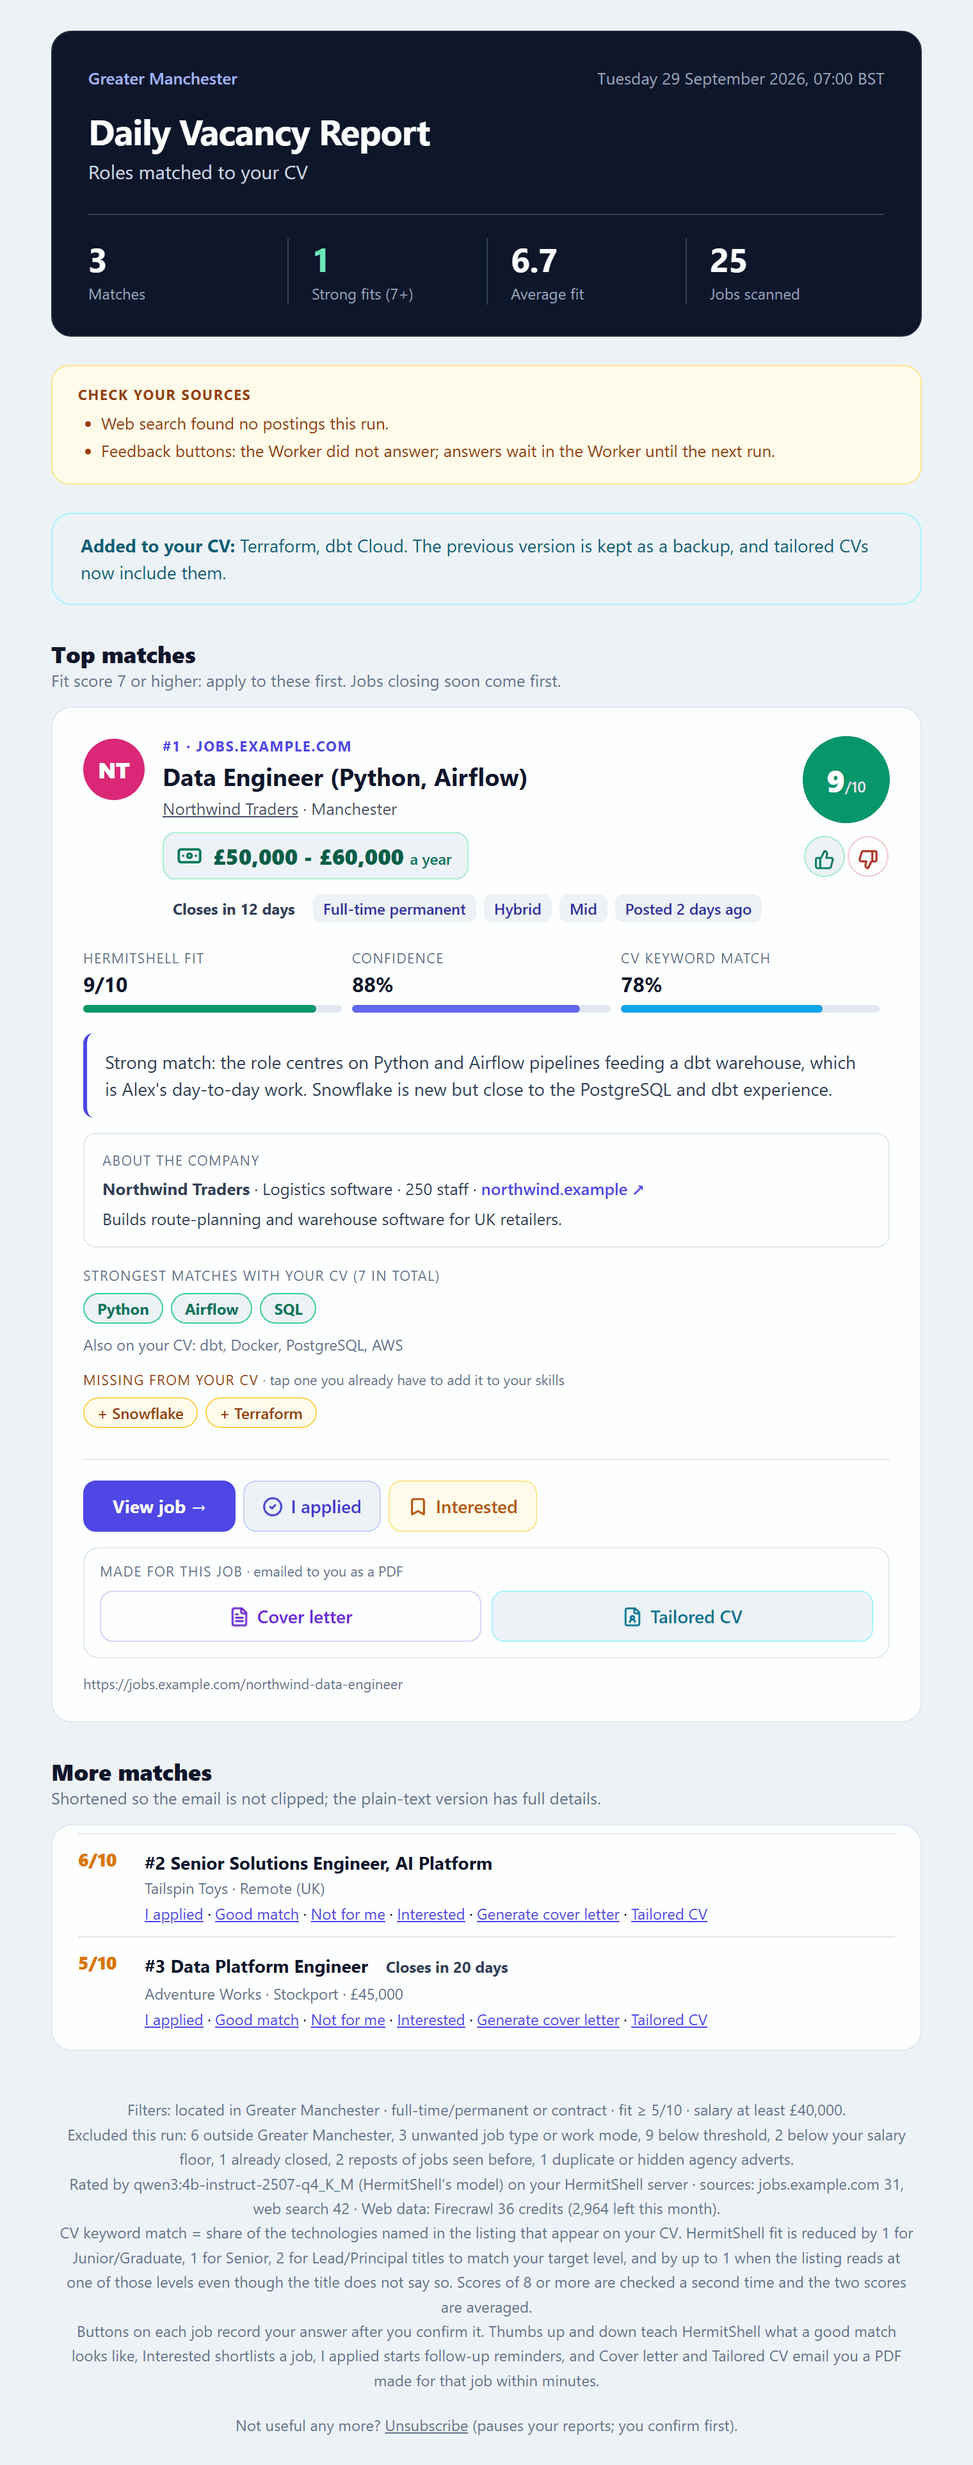
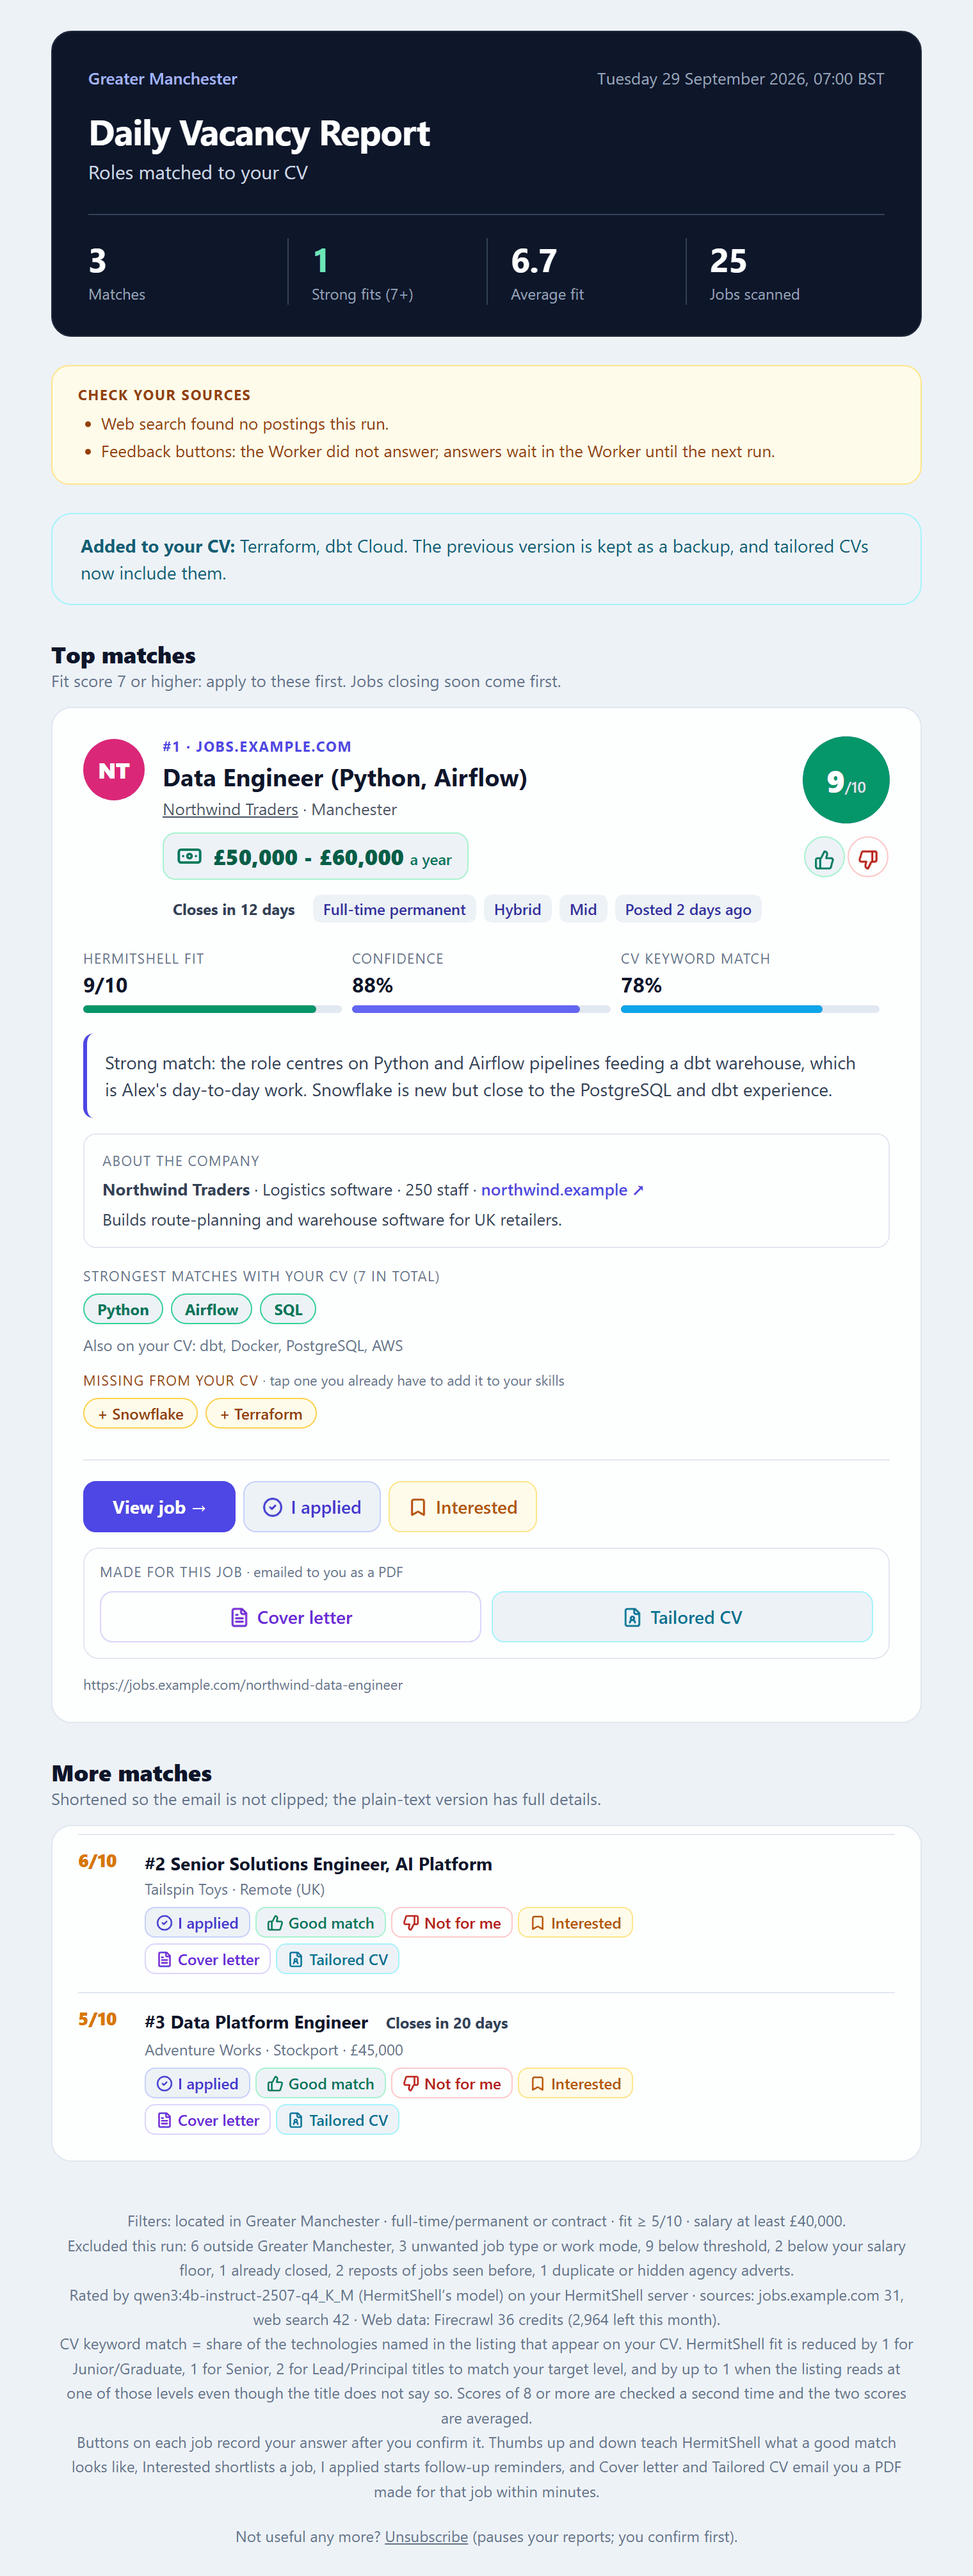
Docs, changelog and screenshot for the one-line entry buttons

diff --git a/docs/screenshots.md b/docs/screenshots.md
@@ -65,7 +65,8 @@ The buttons and tags only appear when the [feedback Worker](feedback-worker.md) 
 - **Added to your CV** (cyan) lists skills you added from the missing-skill tags that were merged
   into your CV this run.
 - **More matches**: when the email would be clipped by Gmail (over about 100 KB), the
-  lowest-ranked jobs become one-line entries with text links instead of full cards.
+  lowest-ranked jobs become one-line entries instead of full cards. They keep the card buttons, with
+  the same icons, at a smaller size.
 - **Footer**: the filters in force, how many jobs each filter excluded, the model, the sources, the
   web credits used, how fit penalties work, and the **Unsubscribe** link.
 

diff --git a/docs/email-rendering.md b/docs/email-rendering.md
@@ -35,8 +35,8 @@ handle this themselves:
 
 The result renders the same: the 126 KB report became 69 KB with identical computed styles on
 every element. The vacancy report also uses `fitted_html()`. If the compacted email is still
-over budget, the lowest-ranked jobs appear as one-line entries under "More matches", with the
-same feedback links, instead of full cards.
+over budget, the lowest-ranked jobs appear as one-line entries under "More matches" instead of
+full cards. They keep the feedback buttons and their icons (`mini_buttons()`), at a smaller size.
 
 ## Images: inline attachments, not SVG or remote URLs
 

diff --git a/CHANGELOG.md b/CHANGELOG.md
@@ -380,6 +380,9 @@ using [Semantic Versioning](https://semver.org/).
 
 ### Changed
 
+- The one-line entries under **More matches** in the vacancy report use smaller versions of the card
+  buttons, with the same icons, instead of underlined text links. Cover letter and Tailored CV sit on a
+  line of their own, as on the full cards.
 - A profile with its own crawler key now searches with only that key. Before, it could still fall back
   to the global Tavily and Scrapfly keys and spend their credits.
 - Vacancy report cards show the three strongest matching skills in bold (the rest as one line),
